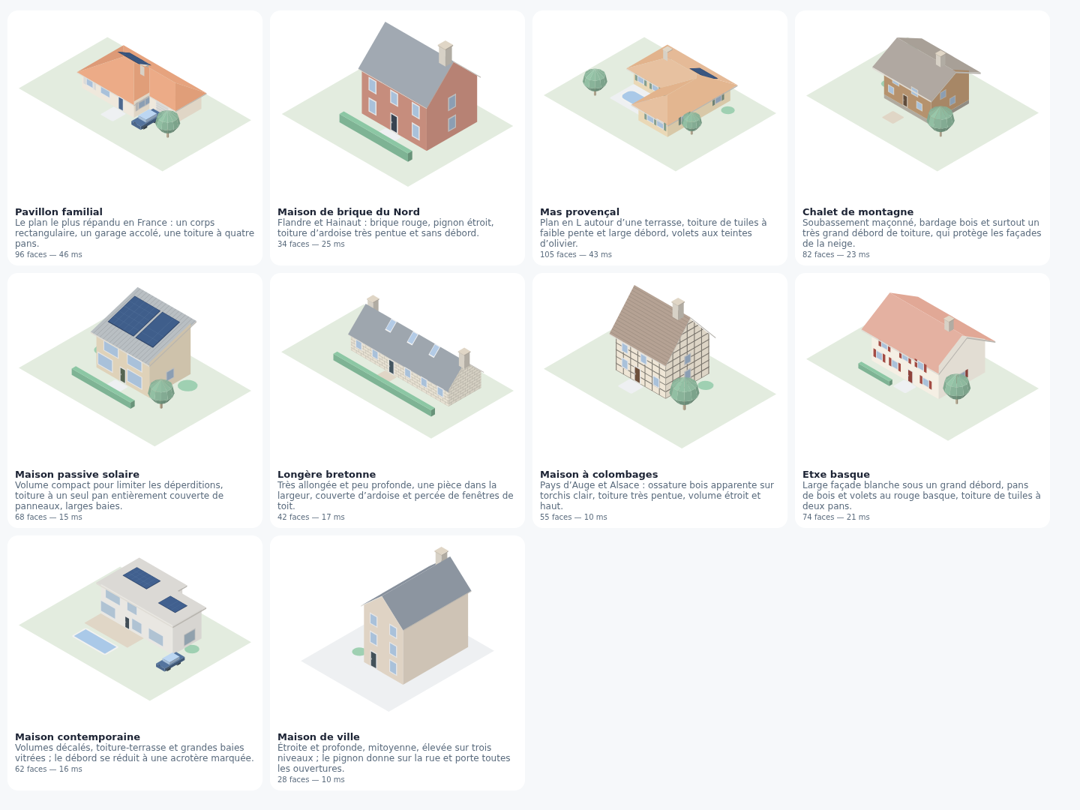
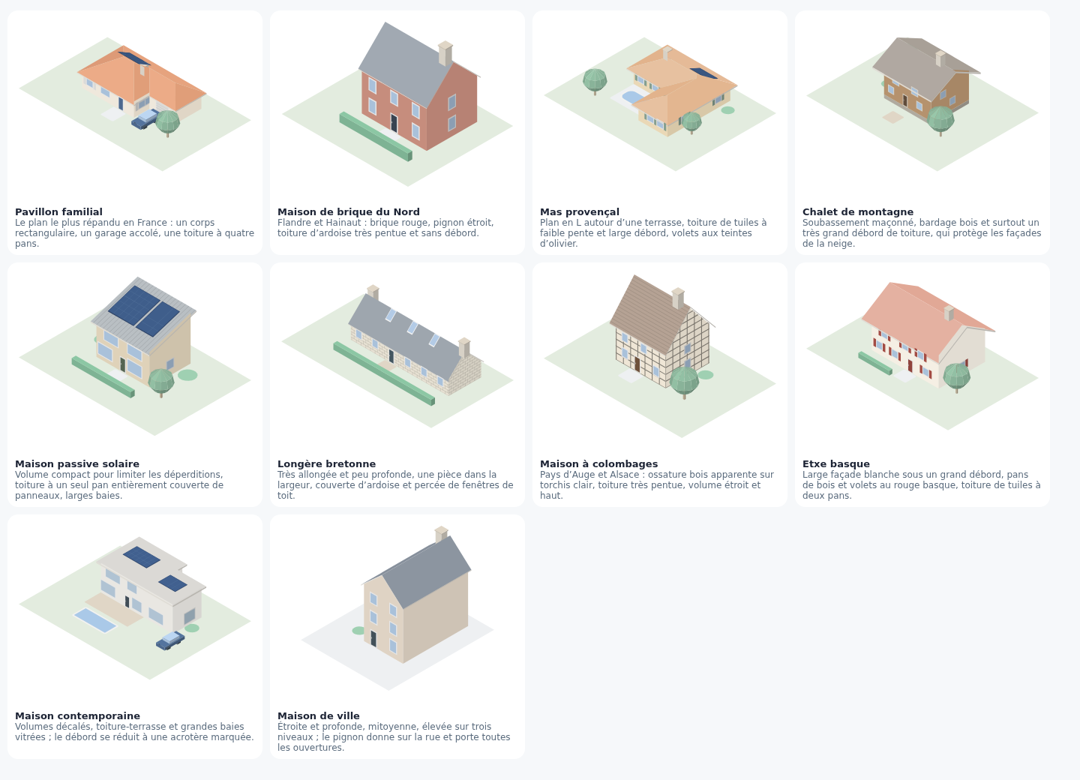
Fiabilise les tests de page et nettoie le visuel des modèles
Le délai d'attente de l'interface passe de 6 à 15 s : servie par un CDN froid,
la première visite met plus longtemps à charger ses modules, et les deux tests
de page ont échoué une fois sur le site fraîchement déployé pour cette seule
raison. Les relances suivantes passaient toutes.

La page dev/presets.html ne montre plus ses compteurs de faces et de temps que
sous ?debug, puisqu'elle sert aussi à produire le visuel du dépôt.

diff --git a/tests/run.js b/tests/run.js
@@ -631,7 +631,10 @@ function loadApp(width, height) {
         const doc = frame.contentDocument;
         const done = doc.querySelector('#inspector .panel') && doc.querySelector('#iso svg');
         if (done) resolve(frame);
-        else if (Date.now() - started > 6000) reject(new Error('interface non prête après 6 s'));
+        // Generous on purpose: served from a CDN over a slow link, the first
+        // load of the modules can take several seconds, and a tight deadline
+        // would fail the suite for reasons that have nothing to do with it.
+        else if (Date.now() - started > 15000) reject(new Error('interface non prête après 15 s'));
         else setTimeout(ready, 60);
       };
       ready();

diff --git a/dev/presets.html b/dev/presets.html
@@ -5,8 +5,12 @@ figure{margin:0;background:#fff;border-radius:14px;overflow:hidden;width:340px}
 figcaption{padding:8px 10px;color:#5a6b7d}
 b{display:block;color:#1c2334;font-size:13px}
 pre{padding:10px;color:#b3392b;white-space:pre-wrap}
+small{display:none}
+body.debug small{display:inline}
 </style></head><body><pre id="warn"></pre><div class="r" id="o"></div>
 <script type="module">
+// ?debug affiche les compteurs ; sans lui la page sert de visuel pour le dépôt.
+if (location.search.includes('debug')) document.body.classList.add('debug');
 import { PRESETS } from '../src/data/presets.js';
 import { normalise, cellSet } from '../src/core/model.js';
 import { boundaryEdges } from '../src/core/grid.js';
